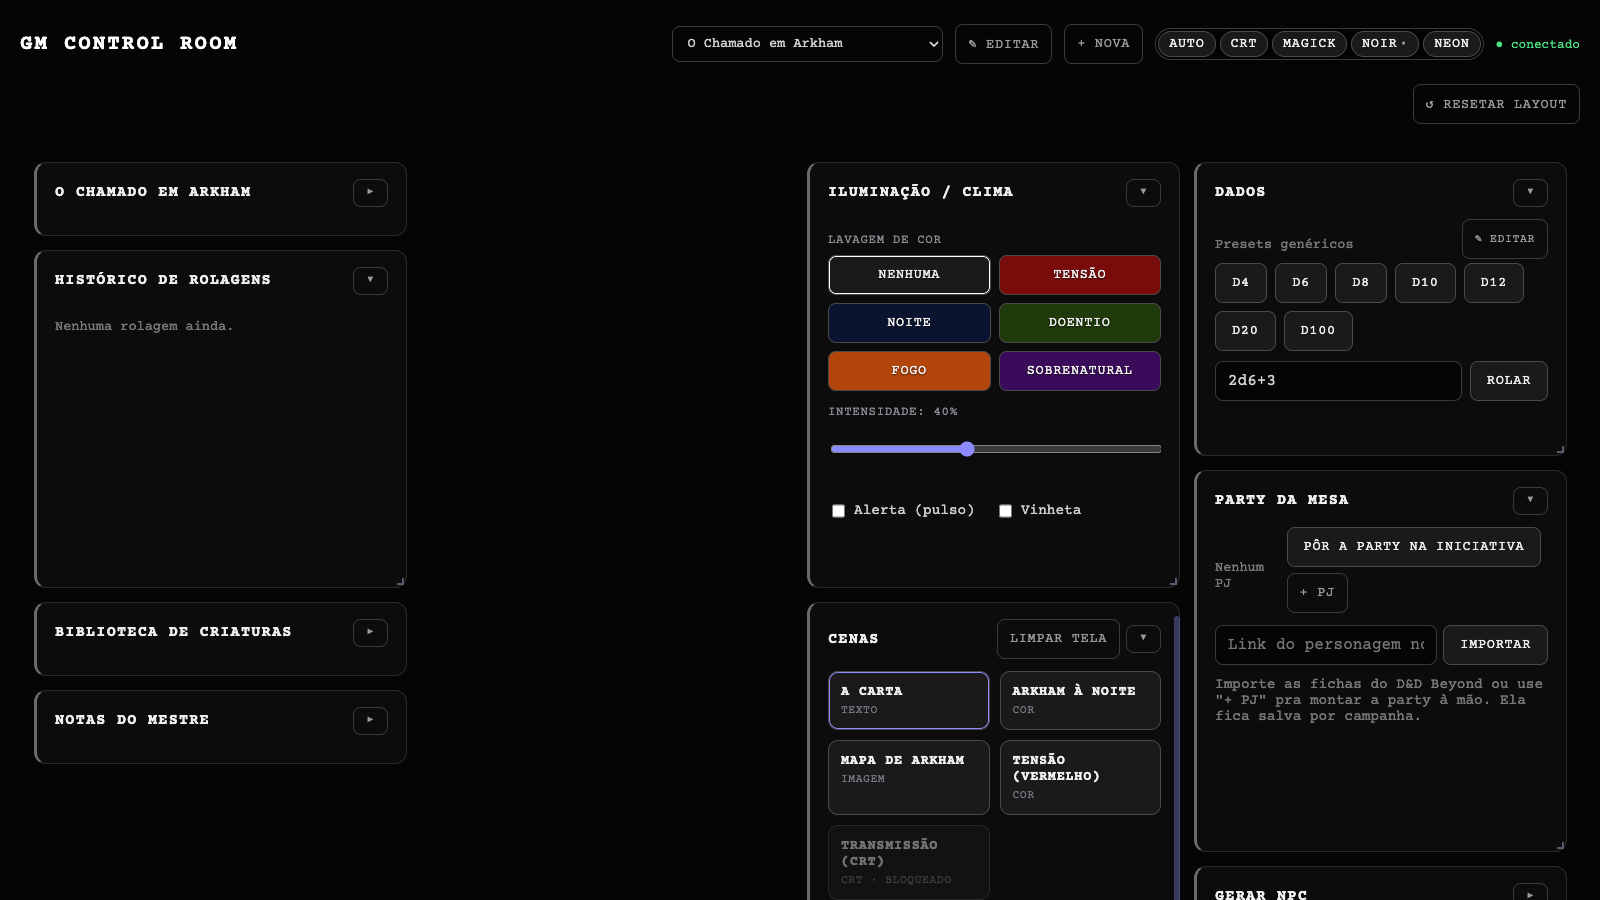
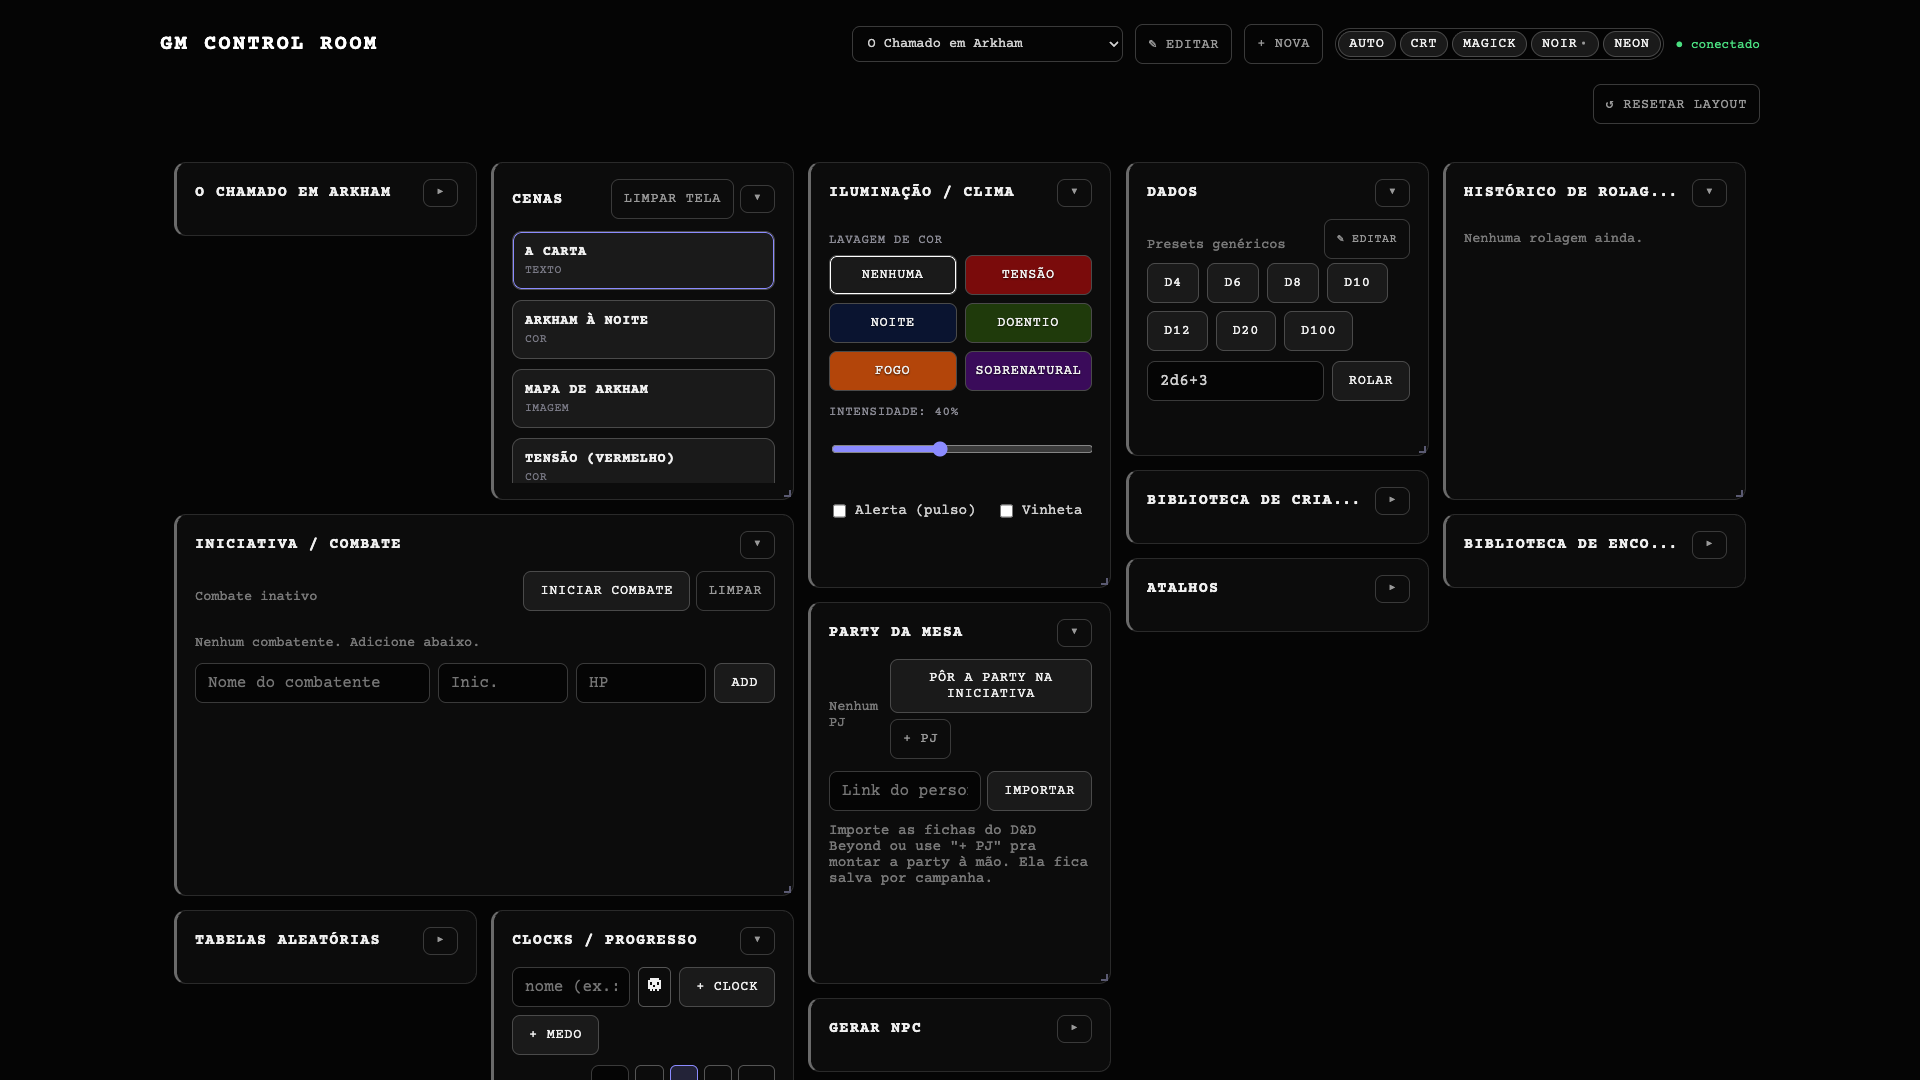
docs: 1080p screenshots, click to enlarge in README

diff --git a/README.md b/README.md
@@ -8,11 +8,13 @@ Painel de controle de sessão de RPG em tempo real. O mestre opera de qualquer d
 
 ## Screenshots
 
-![Painel do mestre (cards arrastáveis)](docs/screenshots/master-dashboard.png)
+Clique para ver em 1080p.
 
-![Tela dos jogadores — typewriter](docs/screenshots/scene-typewriter.png)
+[<img src="docs/screenshots/master-dashboard.png" width="720" alt="Painel do mestre (cards arrastáveis)">](docs/screenshots/master-dashboard.png)
 
-![Tracker de iniciativa / combate](docs/screenshots/combat-tracker.png)
+[<img src="docs/screenshots/scene-typewriter.png" width="720" alt="Tela dos jogadores — typewriter">](docs/screenshots/scene-typewriter.png)
+
+[<img src="docs/screenshots/combat-tracker.png" width="720" alt="Tracker de iniciativa / combate">](docs/screenshots/combat-tracker.png)
 
 ## Início rápido
 
